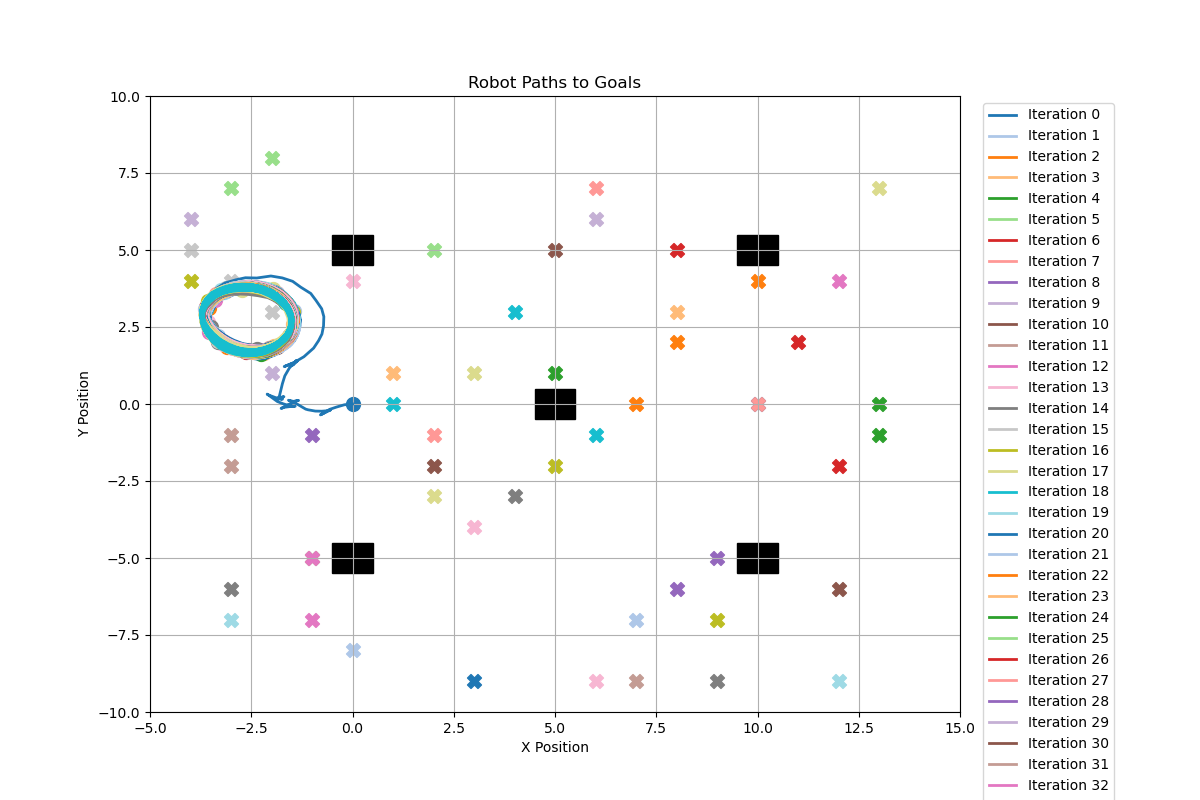
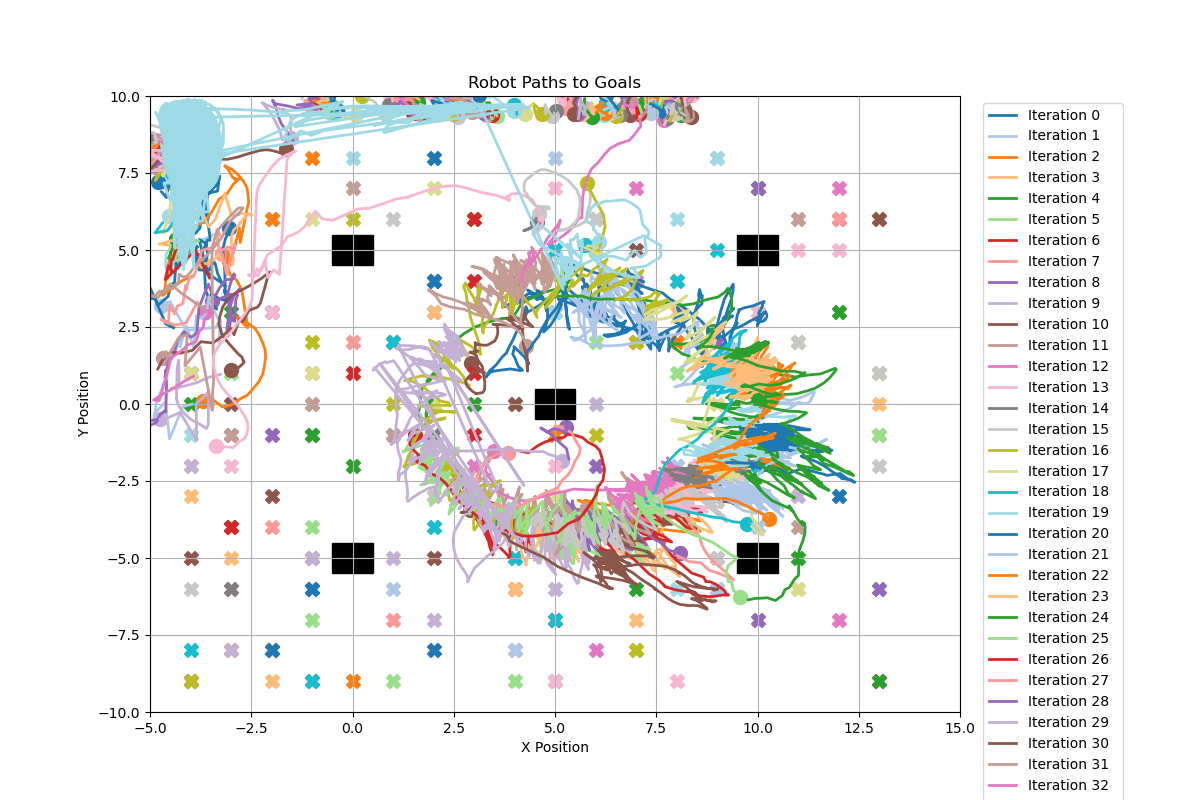
updated recovery method

diff --git a/gym_env/gym_env/custom_gym_env_nav2_controller.py b/gym_env/gym_env/custom_gym_env_nav2_controller.py
@@ -368,17 +368,17 @@ class CustomGymnasiumEnvNav2(gym.Env):
         while self.collision:
             # self._backup_and_spin()
             if self.obstacleAngle >=135 and self.obstacleAngle <= 225:
-                self.subscribeNode.get_logger().info(f"Running Backup Manouvre obstacle at front")
+                self.subscribeNode.get_logger().info(f"Running Backup Manouvre obstacle at front {self.obstacleAngle}")
                 self.publishNode.sendAction(-5.0, 0.0)
             elif self.obstacleAngle > 225 and self.obstacleAngle <= 315:
-                self.subscribeNode.get_logger().info(f"Obstacle on the left")
-                self.publishNode.sendAction(-5.0, -1.0)
+                self.subscribeNode.get_logger().info(f"Obstacle on the left {self.obstacleAngle}")
+                self.publishNode.sendAction(0.0, -3.0)
             elif self.obstacleAngle < 45 or self.obstacleAngle > 315:
-                self.subscribeNode.get_logger().info(f"Obstacle at the back running front Manouvre")
+                self.subscribeNode.get_logger().info(f"Obstacle at the back running front Manouvre {self.obstacleAngle}")
                 self.publishNode.sendAction(5.0, 0.0)
             elif self.obstacleAngle >=45 or self.obstacleAngle < 135 :
-                self.subscribeNode.get_logger().info(f"Obstacle on the right")
-                self.publishNode.sendAction(5.0, 1.0)
+                self.subscribeNode.get_logger().info(f"Obstacle on the right {self.obstacleAngle}")
+                self.publishNode.sendAction(0.0, 3.0)
             time.sleep(2)
             rclpy.spin_once(self.subscribeNode, timeout_sec=1.0)
             self.scan_data = self.subscribeNode.scan_data
